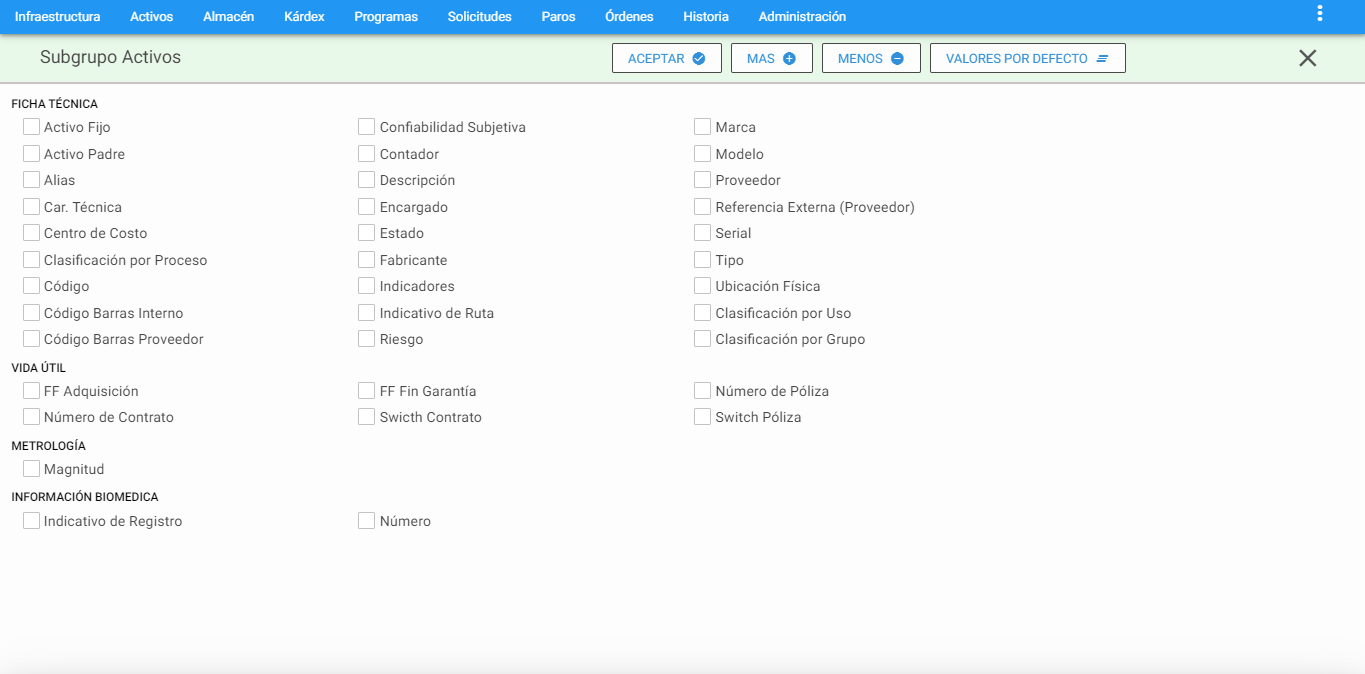
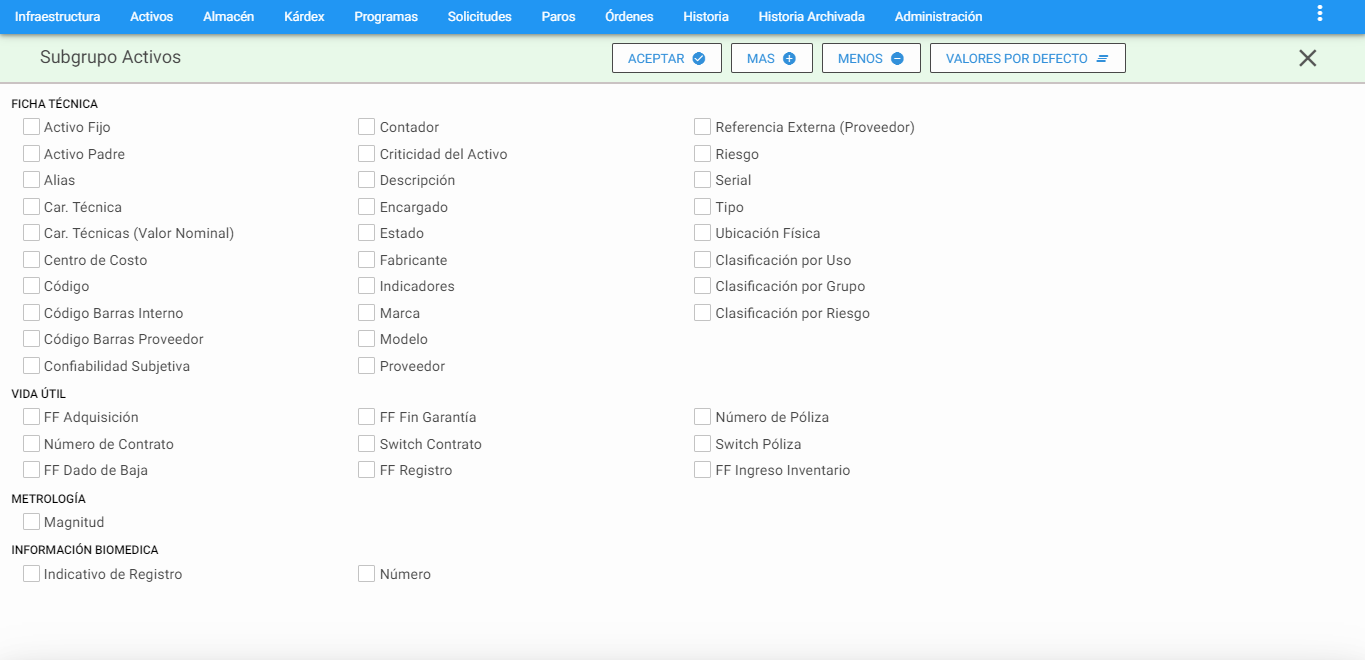
actualización Activos

diff --git a/_docs/03_04_parts_list.md b/_docs/03_04_parts_list.md
@@ -248,13 +248,15 @@ Los campos de datos que constituyen los criterios de selección en la Ventana  S
 
 #### FICHA TÉCNICA
 
-**Activo Fijo:** Esta  opción  permite  hacer  búsqueda de  un  Activo/Equipo  por: Número de Inventario o Código Contable.
+**Activo Fijo:** Esta  opción  permite  hacer  búsqueda de  un  Activo/Equipo  por:  Número de Inventario o Código Contable.
 
 **Activo Padre:** Esta  opción hace una búsqueda del conjunto de Activos que son hijos o son parte del despiece del código del Activo/Equipo digitado en este campo. Es posible hacer uso de comodines %.
 
 **Alias:** Permite seleccionar un Activo/Equipo por el Alias previamente definido en la ficha técnica.
 
 **Car. Técnica:** Permite seleccionar los Activos/Equipos de acuerdo con una determinada Característica Técnica. Esta opción también permite el uso de comodines (%) cuando se desactiva por medio de un clic el candado <span class="mdi mdi-lock"></span> que está al lado del campo, el cual permite escribir <span class="mdi mdi-lock-open-outline"></span> y funciona igual que en los casos anteriores.
+
+**Car.Técnicas (Valor Nominal):**  Selecciona los Activos cuyo valor se encuentra definido como valor norminal en sus características técnicas.  
 
 **Centro de Costo:** Permite la selección de los Activos/ Equipos de acuerdo con el Centro de Costo asignado al  Activo/Equipo. Esta opción también permite el uso de comodines (%) cuando por medio de un clic se desactiva el candado <span class="mdi mdi-lock"></span> que está al lado del campo, el cual permite escribir <span class="mdi mdi-lock-open-outline"></span>, siendo posible seleccionar los Activos pertenecientes a Centros de Costo que tengan parte  del nombre igual. Por ejemplo: **Sistema%** seleccionará todos los Activos/Equipos en cuyo Centro de Costo tengan la palabra Sistema, independiente de si se está hablando del Sistema de Agua, de Vapor o de Energía.
 
@@ -291,6 +293,8 @@ El primer campo despliega las siguientes opciones:
 El segundo campo se usa para ingresar el valor correspondiente a la confiablidad subjetiva indicada por el técnico ejecutor.
 
 **Contador:** Permite seleccionar los Activos/Equipos de  acuerdo con un determinado Contador. Esta opción también permite el uso de comodines y funciona igual que en los casos anteriores.
+
+**Criticidad del Activo:** Selecciona los Activos que tienen asociada la criticidad que se escoja de las opciones disponibles.  
 
 **Descripción:** Selecciona los Activos/Equipos según criterios que se fundamenten en su descripción. Ejemplo: %Motor% selecciona todos los Activos/Equipos en cuya descripción, en cualquier posición, tengan la palabra  “Motor”.
 
@@ -507,7 +511,7 @@ A continuación se describen los campos que componen esta Pestaña:
 
 **Rango de Trabajo:** es intervalo de medición del Activo/Equipo.
 
-**Puntos:** Son los tres puntos de referencia de calibración o de verificación del Activo.
+**Puntos:** Son los ocho puntos de referencia de calibración o de verificación del Activo.
 
 ## INFORMACIÓN BIOMÉDICA
 
@@ -782,7 +786,7 @@ _**Imagen 51.** Activos - Modificar Clasificación por uso_
 ![Procesar imagen](https://ayuda.winsoftware.com.co/assets/images/cap03/chp03_img14_35.png)
 _**Imagen 52.** Activos - Modificar  Clasificación por uso_
 
-
+>**Nota:** Estas opciones de modificar masivamente la información biomédica, sólo está habibilitada para este tipo de compañías.
 
 ### Actualizar Contadores
 
@@ -864,13 +868,13 @@ Para acceder se sobrepone el cursor sobre el módulo de <a class="btn blue">acti
 ![Procesar imagen](https://ayuda.winsoftware.com.co/assets/images/cap03/chp03_img35.png)
 _**Imagen 58.** Activos - Ir a Cruce de Activos_
 
-A continuación se visualiza la Ventana Visor de Cruces Activos:
+A continuación se visualiza la Ventana Visor de Cruces Activos:
 
 ![Procesar imagen](https://ayuda.winsoftware.com.co/assets/images/cap03/chp03_img36.png)
 _**Imagen 59.** Activos - Visor Cruce de Activos_
 
 
-Los títulos de cada columna en color azul permiten organizar la información ascendente o descendente a través de un clic. 
+Los títulos de cada columna en color azul permiten organizar la información ascendente o descendente a través de un clic. 
 
 **Esta transacción contiene las funcionalidades en cada ventana:** Subgrupos de información <span class="mdi mdi-filter-variant"></span>,  exportar registros seleccionados <span class="mdi mdi-download"></span> , imprimir reportes <span class="mdi mdi-printer"></span>  y consultar indicadores <span class="mdi mdi-message-alert"></span>. 
 
@@ -883,7 +887,7 @@ Es posible seleccionar uno a uno en la primera columna **Indicador** a través d
 - Órdenes de Trabajo: <a class="btn white">OT</a> 
 - Historia de Mantenimiento:  <a class="btn white">HI</a>
 
-A continuación se ilustra el siguiente ejemplo:
+A continuación se ilustra el siguiente ejemplo:
 
 ![Procesar imagen](https://ayuda.winsoftware.com.co/assets/images/cap03/chp03_img37.png)
 _**Imagen 60.** Activos - Subgrupo Cruce de Activos_
@@ -896,17 +900,17 @@ También puede visualizarse en la opción <span class="mdi mdi-download"></span>
 _**Imagen 61.** Activos - Exportar Grilla de Cruce de Activos_
 
 
-Esto puede tardar algunos minutos dependiendo de la cantidad de datos a exportar, para continuar dar clic en el botón **Descargar**. Esto descarga un archivo en formato excel en la estación Cliente:
+Esto puede tardar algunos minutos dependiendo de la cantidad de datos a exportar, para continuar dar clic en el botón **Descargar**. Esto descarga un archivo en formato excel en la estación Cliente:
 
 ![Procesar imagen](https://ayuda.winsoftware.com.co/assets/images/cap03/chp03_img39.png)
 _**Imagen 62.** Activos - Descarga Grilla de Cruce de Activos_
 
-Visualización de la exportación:
+Visualización de la exportación:
 
 ![Procesar imagen](https://ayuda.winsoftware.com.co/assets/images/cap03/chp03_img40.png)
-_**Imagen 63.** Activos - Visualización Descarga Grilla Cruce de Activos_
+_**Imagen 63.** Activos - Visualización Descarga Grilla Cruce de Activos_
 
-Para continuar y consultar Programas asociados al Activo o Activos seleccionados dar clic en el botón <a class="btn white">PM</a>:
+Paara continuar y consultar Programas asociados al Activo o Activos seleccionados dar clic en el botón <a class="btn white">PM</a>:
 
 ![Procesar imagen](https://ayuda.winsoftware.com.co/assets/images/cap03/chp03_img41.png)
 _**Imagen 64.** Activos - Programas Cruce de Activos_
